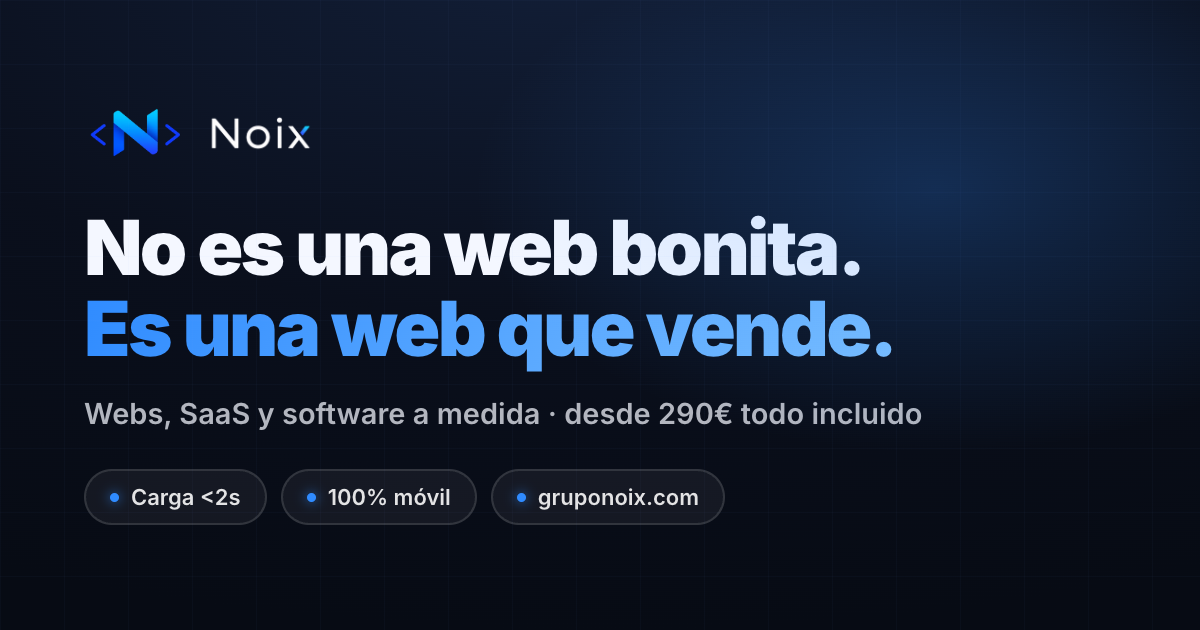
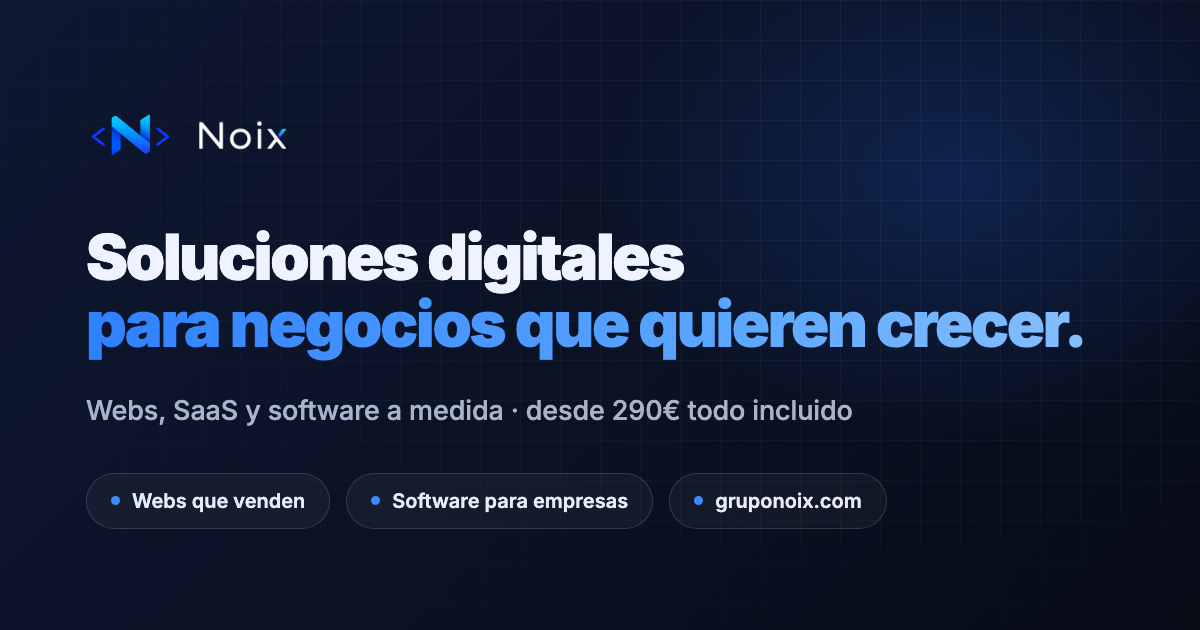
feat: new slogan 'Soluciones digitales para negocios que quieren crecer'
Broaden messaging from local-business websites to web + software:
hero headline, subtitle and label, footer, metadata, JSON-LD slogan,
contact email footer, llms.txt and a regenerated share image.

diff --git a/src/components/sections/Hero.tsx b/src/components/sections/Hero.tsx
@@ -64,17 +64,17 @@ export default function Hero() {
           transition={{ duration: 0.7, ease: EASE }}
         >
           <Chip className="mb-7">
-            Agencia de desarrollo web · negocios locales
+            Desarrollo web y software · Málaga
           </Chip>
         </motion.div>
 
         <h1 className="text-balance text-4xl font-black leading-[0.98] tracking-tightest text-white sm:text-6xl lg:text-7xl xl:text-[5.25rem]">
           <span className="block">
-            <AnimatedText text="No es una web bonita." delay={0.25} />
+            <AnimatedText text="Soluciones digitales" delay={0.25} />
           </span>
           <span className="mt-1 block text-gradient">
             <AnimatedText
-              text="Es una web que vende."
+              text="para negocios que quieren crecer."
               delay={0.6}
               highlight={[4]}
               highlightClassName="text-gradient-blue"
@@ -88,9 +88,9 @@ export default function Hero() {
           transition={{ duration: 0.7, ease: EASE, delay: 1.1 }}
           className="mt-7 max-w-2xl text-pretty text-base text-white/70 sm:text-lg"
         >
-          Diseñamos y desarrollamos webs rápidas, impecables en el móvil y
-          pensadas para una sola cosa: convertir visitas en clientes para tu
-          negocio local.
+          Diseñamos y desarrollamos webs, aplicaciones y software a medida que
+          impulsan las ventas, optimizan procesos y acompañan el crecimiento de
+          tu empresa.
         </motion.p>
 
         <motion.div

diff --git a/src/app/layout.tsx b/src/app/layout.tsx
@@ -16,7 +16,7 @@ const SITE_URL = "https://gruponoix.com";
 export const metadata: Metadata = {
   metadataBase: new URL(SITE_URL),
   title: {
-    default: "Grupo NOIX — No es una web bonita. Es una web que vende.",
+    default: "Grupo NOIX — Soluciones digitales para negocios que quieren crecer.",
     template: "%s · Grupo NOIX",
   },
   description:
@@ -42,15 +42,15 @@ export const metadata: Metadata = {
     locale: "es_ES",
     url: SITE_URL,
     siteName: "Grupo NOIX",
-    title: "Grupo NOIX — No es una web bonita. Es una web que vende.",
+    title: "Grupo NOIX — Soluciones digitales para negocios que quieren crecer.",
     description:
-      "Webs rápidas, móviles y pensadas para vender, para negocios locales. Planes desde 290€.",
+      "Webs, aplicaciones y software a medida para negocios y empresas que quieren crecer. Webs desde 290€.",
   },
   twitter: {
     card: "summary_large_image",
-    title: "Grupo NOIX — No es una web bonita. Es una web que vende.",
+    title: "Grupo NOIX — Soluciones digitales para negocios que quieren crecer.",
     description:
-      "Webs rápidas, móviles y pensadas para vender, para negocios locales. Planes desde 290€.",
+      "Webs, aplicaciones y software a medida para negocios y empresas que quieren crecer. Webs desde 290€.",
   },
   robots: {
     index: true,

diff --git a/src/lib/contactEmail.ts b/src/lib/contactEmail.ts
@@ -62,7 +62,7 @@ export function buildContactEmail(p: ContactPayload) {
           <a href="mailto:${email}" style="display:inline-block;background:#2f8bff;color:#ffffff;text-decoration:none;font-weight:700;font-size:14px;padding:13px 24px;border-radius:10px;font-family:Helvetica,Arial,sans-serif;">Responder a ${name}</a>
         </td></tr>
         <tr><td style="padding:18px 32px;background:#0a0f1c;border-top:1px solid #1e2d4d;">
-          <p style="margin:0;font-size:11px;line-height:1.6;color:#5d7298;font-family:Helvetica,Arial,sans-serif;">Enviado el ${date} · Grupo NOIX — No es una web bonita. Es una web que vende.</p>
+          <p style="margin:0;font-size:11px;line-height:1.6;color:#5d7298;font-family:Helvetica,Arial,sans-serif;">Enviado el ${date} · Grupo NOIX — Soluciones digitales para negocios que quieren crecer.</p>
         </td></tr>
       </table>
     </td></tr>

diff --git a/src/components/sections/Footer.tsx b/src/components/sections/Footer.tsx
@@ -31,9 +31,9 @@ export default function Footer() {
               />
             </div>
             <p className="mt-4 text-pretty text-sm text-muted-foreground">
-              No es una web bonita.{" "}
+              Soluciones digitales{" "}
               <span className="font-semibold text-white/90">
-                Es una web que vende.
+                para negocios que quieren crecer.
               </span>{" "}
               Diseño y desarrollo web en <strong className="font-semibold text-white/90">Málaga</strong>, para negocios locales de toda España.
             </p>

diff --git a/src/app/page.tsx b/src/app/page.tsx
@@ -20,7 +20,7 @@ const businessLd = {
   alternateName: "NOIX",
   description:
     "Agencia de desarrollo web y software. Webs rápidas, móviles y diseñadas para vender para negocios locales, y SaaS a medida para empresas.",
-  slogan: "No es una web bonita. Es una web que vende.",
+  slogan: "Soluciones digitales para negocios que quieren crecer.",
   email: "gruponoixx@gmail.com",
   url: SITE,
   logo: `${SITE}/icon.png`,
